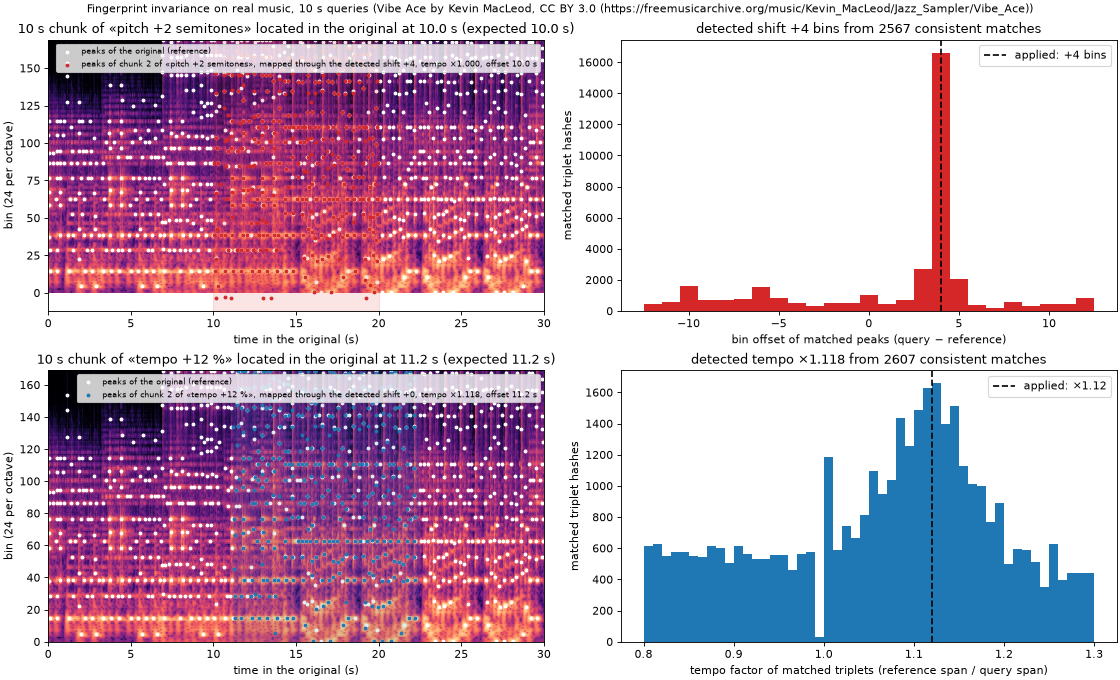
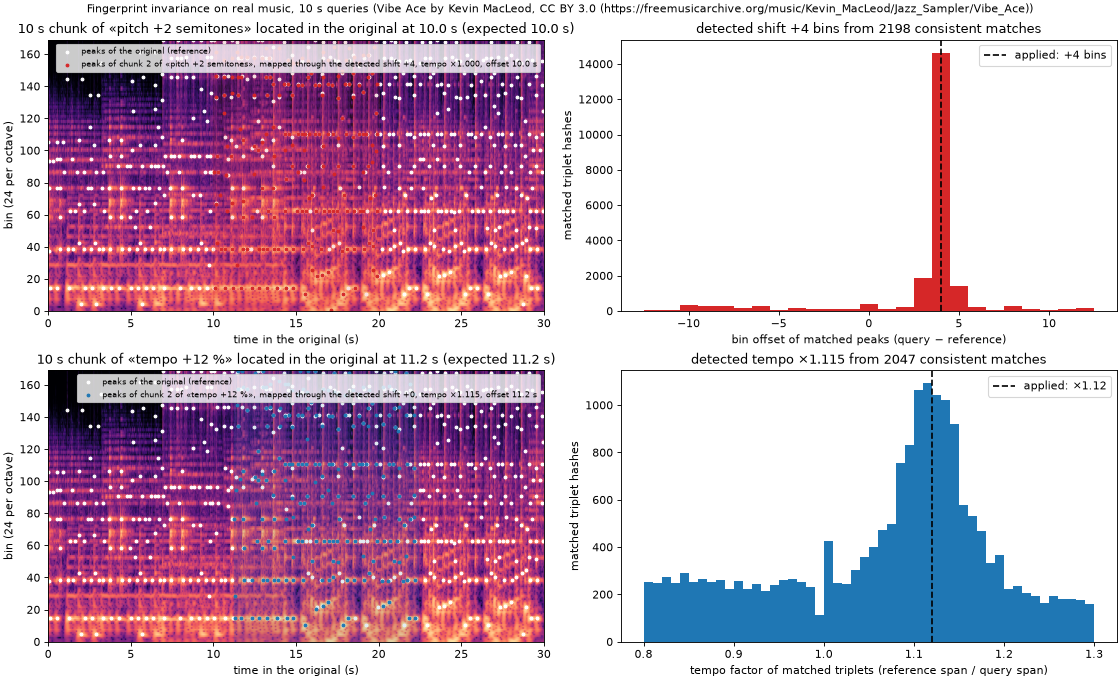
Tune the fingerprint peak picker and measure detection time
Replace the fixed -50 dB peak threshold with a 15 dB prominence rule
over a ±24 frame × ±9 bin neighbourhood, quantize the triplet time ratio
to 1/32 and widen the zone to 320 frames. Chosen from offline sweeps on
the cached spectrograms: noisy chunks go from 6–18 % to 26–29 %, clipped
and vocoded chunks rise as well, and the unrelated control stays at 0.1 %.

Add a peak-survival column that explains the remaining ceiling (a
triplet needs all three peaks, so score ≈ survival³) and a figure showing
how the evidence grows with the query length: the true reference beats
the unrelated piece by an order of magnitude after 2–3 s. Record the
sweep results and revised next steps in docs/NOTES.md.

Claude-Session: https://claude.ai/code/session_01V99q7FKCh8WL8cmQgbHNP3

diff --git a/scripts/fingerprint_demo.py b/scripts/fingerprint_demo.py
@@ -7,8 +7,9 @@ sped-up, clipped and noisy versions, cuts every version into 10 s chunks,
 runs `examples/cqt_dump.rs` on each chunk, fingerprints the spectrograms
 with pitch- and tempo-invariant peak triplets, and matches every chunk
 against the fingerprint of the full original, reporting the recovered pitch
-shift, tempo factor and position. It also compares our spectrogram with
-librosa's CQT of the same excerpt.
+shift, tempo factor and position, plus how the evidence grows with the
+length of the query. It also compares our spectrogram with librosa's CQT of
+the same excerpt.
 
     pip install numpy scipy soundfile librosa matplotlib
     python3 scripts/fingerprint_demo.py
@@ -66,6 +67,8 @@ EXCERPT = (0.5, 30.5)  # seconds
 SAME_SONG = (31.0, 61.0)  # the other, non-overlapping half of the song
 CONTROL = (5.0, 35.0)  # window of the unrelated control piece
 CHUNK_SECONDS = 10.0
+# Fewer consistent matches than this is treated as no identification.
+MIN_CONSISTENT = 30
 
 
 def download(name: str, sha256: str) -> Path:
@@ -98,21 +101,49 @@ def to_db(magnitudes: np.ndarray, top_db: float = 80.0) -> np.ndarray:
     return np.maximum(db, db.max() - top_db)
 
 
-def peaks(db: np.ndarray, time_radius: int = 24, bin_radius: int = 6, min_db: float = -50.0):
-    """Local maxima of the dB spectrogram, as (frame, bin) pairs."""
-    footprint = np.ones((2 * time_radius + 1, 2 * bin_radius + 1), dtype=bool)
-    local_max = ndimage.maximum_filter(db, footprint=footprint, mode="nearest") == db
-    strong = db >= db.max() + min_db
+def peaks(db: np.ndarray, time_radius: int = 24, bin_radius: int = 9, prominence_db: float = 15.0,
+          floor_db: float = -70.0):
+    """Local maxima of the dB spectrogram that stand `prominence_db` above the
+    mean of their neighbourhood, as (frame, bin) pairs.
+
+    A prominence threshold adapts to the local level: it keeps peaks in
+    quiet passages, ignores the raised floor of noisy audio and drops the
+    dense side lobes of clipped audio, where a fixed threshold does the
+    opposite. `floor_db` below the global maximum is a safety net."""
+    size = (2 * time_radius + 1, 2 * bin_radius + 1)
+    local_max = ndimage.maximum_filter(db, size=size, mode="nearest") == db
+    local_mean = ndimage.uniform_filter(db, size=size, mode="nearest")
+    strong = (db >= local_mean + prominence_db) & (db >= db.max() + floor_db)
     frames, bins = np.nonzero(local_max & strong)
     return np.stack([frames, bins], axis=1)
 
 
-def triplet_hashes(points: np.ndarray, zone_frames: int = 240, fan_out: int = 6):
+def peak_survival(query_peaks: np.ndarray, reference_peaks: np.ndarray, shift: int, tempo: float,
+                  offset: float, time_tolerance: int = 3, bin_tolerance: int = 1) -> float:
+    """Fraction of the query's peaks with a reference peak within tolerance
+    after mapping through the detected shift, tempo and offset. A triplet
+    hash survives only when all three of its peaks do, so the match score is
+    bounded by roughly the cube of this number."""
+    if len(query_peaks) == 0 or np.isnan(offset):
+        return np.nan
+    reference = {(int(t), int(b)) for t, b in reference_peaks}
+    hits = 0
+    for t, b in query_peaks:
+        t_mapped = int(round(tempo * t + offset))
+        b_mapped = int(b) - shift
+        if any((t_mapped + dt, b_mapped + db) in reference
+               for dt in range(-time_tolerance, time_tolerance + 1)
+               for db in range(-bin_tolerance, bin_tolerance + 1)):
+            hits += 1
+    return hits / len(query_peaks)
+
+
+def triplet_hashes(points: np.ndarray, zone_frames: int = 320, fan_out: int = 6, ratio_steps: int = 32):
     """Pitch- and tempo-invariant hashes from peak triplets.
 
     For peaks p1 < p2 < p3 in time the key is the two bin differences and the
-    quantized ratio (t2 - t1) / (t3 - t1); bin differences survive pitch
-    shifts and the ratio survives tempo changes.
+    ratio (t2 - t1) / (t3 - t1) quantized to `ratio_steps`; bin differences
+    survive pitch shifts and the ratio survives tempo changes.
     """
     order = np.lexsort((points[:, 1], points[:, 0]))
     points = points[order]
@@ -130,7 +161,7 @@ def triplet_hashes(points: np.ndarray, zone_frames: int = 240, fan_out: int = 6)
                 if t3 == t2:
                     continue
                 ratio = (t2 - t1) / (t3 - t1)
-                key = (int(b2 - b1), int(b3 - b2), int(round(ratio * 24)))
+                key = (int(b2 - b1), int(b3 - b2), int(round(ratio * ratio_steps)))
                 hashes[key].append((int(t1), int(b1), int(t3 - t1)))
     return hashes
 
@@ -333,10 +364,13 @@ def main() -> None:
             est = estimate(pairs)
             total = sum(len(v) for v in hs.values())
             expected_offset = start_s * applied_rate
+            if est["consistent"] < MIN_CONSISTENT:
+                est.update(bins=np.nan, tempo=np.nan, offset=np.nan)
+            survival = peak_survival(pk, reference_peaks, est["bins"], est["tempo"], est["offset"])
             rows.append(dict(
                 chunk=k + 1, start=start_s, seconds=len(piece) / sr, hashes=total, pairs=pairs,
                 peaks=pk, db=db, score=100.0 * est["consistent"] / max(total, 1),
-                expected_offset=expected_offset,
+                survival=survival, expected_offset=expected_offset,
                 located=est["offset"] * HOP / sr if not np.isnan(est["offset"]) else np.nan, **est,
             ))
         results[name] = (rows, applied_bins, applied_rate)
@@ -344,17 +378,20 @@ def main() -> None:
         print(f"{name:34} {summary}")
 
     def fmt(value, spec):
-        return "—" if value is None or (isinstance(value, float) and np.isnan(value)) else format(value, spec)
+        if value is None or (isinstance(value, float) and np.isnan(value)):
+            return "—"
+        return format(int(value) if spec == "+d" else value, spec)
 
-    print("\n| Version | Chunk 1 | Chunk 2 | Chunk 3 | Mean | Shift applied / detected | Tempo applied / detected | Located at (expected) |")
-    print("| --- | ---: | ---: | ---: | ---: | ---: | ---: | --- |")
+    print("\n| Version | Chunk 1 | Chunk 2 | Chunk 3 | Mean | Peaks kept | Shift applied / detected | Tempo applied / detected | Located at (expected) |")
+    print("| --- | ---: | ---: | ---: | ---: | ---: | ---: | ---: | --- |")
     for name, (rows, applied_bins, applied_rate) in results.items():
         scores = [f"{r['score']:.1f} %" for r in rows] + ["—"] * (3 - len(rows))
         mean = np.mean([r["score"] for r in rows])
         shifts = "/".join(fmt(r["bins"], "+d") for r in rows)
         tempos = "/".join(fmt(r["tempo"], ".3f") for r in rows)
         located = ", ".join(f"{fmt(r['located'], '.1f')} ({r['expected_offset']:.1f})" for r in rows)
-        print(f"| {name} | {' | '.join(scores)} | {mean:.1f} % | {applied_bins:+d} / {shifts} | "
+        kept = "/".join(fmt(100 * r["survival"], ".0f") for r in rows) + " %"
+        print(f"| {name} | {' | '.join(scores)} | {mean:.1f} % | {kept} | {applied_bins:+d} / {shifts} | "
               f"×{applied_rate:.2f} / {tempos} | {located} s |")
 
     # --- figure: pitch shift and tempo change proofs on the middle chunk -----
@@ -423,9 +460,42 @@ def main() -> None:
     fig.savefig(PLOTS / "song_match_scores.png", dpi=100)
     plt.close(fig)
 
+    # --- figure: how many seconds of audio a match needs -------------------------
+    # A real-time monitor sees the query grow; match the first 1..10 s of the
+    # middle chunk of every version and count the consistent hashes.
+    lengths = list(range(1, int(CHUNK_SECONDS) + 1))
+    growth = {}
+    for name, (rows, applied_bins, applied_rate) in results.items():
+        r = rows[min(1, len(rows) - 1)]
+        counts = []
+        for seconds in lengths:
+            db = r["db"][: int(seconds * sr / HOP)]
+            hs = triplet_hashes(peaks(db))
+            counts.append(estimate(match(hs, reference_hashes))["consistent"])
+        growth[name] = counts
+    fig, ax = plt.subplots(figsize=(10, 6), constrained_layout=True)
+    for name, counts in growth.items():
+        is_control = name.startswith("control")
+        ax.plot(lengths, np.maximum(counts, 0.5), marker="o", ms=4, lw=2.2 if is_control else 1.4,
+                ls="--" if is_control else "-", color="k" if is_control else None, label=name)
+    ax.set_yscale("log")
+    ax.set_xlabel("seconds of the query (start of the middle 10 s chunk)")
+    ax.set_ylabel("consistent triplet matches with the original")
+    ax.set_xticks(lengths)
+    ax.grid(True, which="both", alpha=0.3)
+    ax.set_title("Evidence accumulated against the original as the query grows "
+                 "(dashed: unrelated piece)", fontsize=10)
+    ax.legend(fontsize=8, loc="lower right", ncol=2)
+    fig.savefig(PLOTS / "song_detection_time.png", dpi=100)
+    plt.close(fig)
+    print("\nconsistent matches after 1..10 s of the middle chunk:")
+    for name, counts in growth.items():
+        print(f"{name:34} " + " ".join(f"{c:5d}" for c in counts))
+
     json.dump(
         {name: dict(applied_bins=applied_bins, applied_rate=applied_rate,
-                    chunks=[{k: v for k, v in r.items() if k not in ("pairs", "peaks", "db")} for r in rows])
+                    chunks=[{k: v for k, v in r.items() if k not in ("pairs", "peaks", "db")} for r in rows],
+                    growth=growth[name])
          for name, (rows, applied_bins, applied_rate) in results.items()},
         open(WORK / "summary.json", "w"), indent=2, default=float,
     )

diff --git a/README.md b/README.md
@@ -161,10 +161,13 @@ cargo run --release --example generate_plots
 as the reference. Modified versions of the excerpt, the other half of the
 same song, and an unrelated piece (*Dance of the Sugar Plum Fairy*, Kevin
 MacLeod, CC BY 3.0) are cut into 10 s chunks, and every chunk is matched
-against the reference on its own. Spectrograms use hop 256; fingerprints
-are pitch- and tempo-invariant peak triplets (two bin differences plus a
-quantized time ratio, as in Panako) looked up with ±1 bin and ±1 ratio step
-of tolerance; the tempo of a match is the ratio of the two triplets' time
+against the reference on its own. Spectrograms use hop 256. Peaks are
+local maxima that stand 15 dB above the mean of their ±24 frame × ±9 bin
+neighbourhood, a prominence rule that adapts to quiet passages, a raised
+noise floor and the side lobes of clipping alike. Fingerprints are pitch-
+and tempo-invariant peak triplets (two bin differences plus the time ratio
+quantized to 1/32, as in Panako) looked up with ±1 bin and ±1 ratio step of
+tolerance; the tempo of a match is the ratio of the two triplets' time
 spans, the pitch shift and tempo are chosen by vote, and the position
 follows from `t_ref = tempo · t_query + offset`.
 
@@ -176,29 +179,45 @@ with a correlation of 0.9996, and the linear gain ratio is 1.009.
   <img src="./plots/song_cqt_vs_librosa.png" width="98%" />
 </p>
 
-Score = consistent hashes / hashes of the chunk. "Located" is the detected
-start of the chunk in the reference, expected value in parentheses.
+Score = consistent hashes / hashes of the chunk. "Peaks kept" is the share
+of the chunk's peaks that have a counterpart in the reference after the
+detected mapping; a triplet survives only if all three of its peaks do, so
+the score is bounded by roughly its cube. "Located" is the detected start
+of the chunk in the reference, expected value in parentheses.
 
-| Version | Chunk 1 | Chunk 2 | Chunk 3 | Mean | Shift applied / detected | Tempo applied / detected | Located at (expected) |
-| --- | ---: | ---: | ---: | ---: | ---: | ---: | --- |
-| original | 95.7 % | 48.9 % | 53.8 % | 66.1 % | +0 / +0/+0/+0 | ×1.00 / 1.000/1.000/1.000 | 0.0 (0.0), 10.0 (10.0), 20.0 (20.0) s |
-| pitch +2 semitones | 11.1 % | 9.8 % | 12.9 % | 11.3 % | +4 / +4/+4/+4 | ×1.00 / 1.000/1.000/1.000 | 0.0 (0.0), 10.0 (10.0), 20.0 (20.0) s |
-| pitch −1 semitone | 16.4 % | 7.7 % | 7.6 % | 10.6 % | −2 / −2/−2/−2 | ×1.00 / 1.000/1.000/1.000 | 0.0 (0.0), 10.0 (10.0), 20.0 (20.0) s |
-| tempo +12 % | 13.5 % | 9.6 % | 8.4 % | 10.5 % | +0 / +0/+0/+0 | ×1.12 / 1.115/1.118/1.099 | 0.0 (0.0), 11.2 (11.2), 22.5 (22.4) s |
-| tempo −8 % | 13.7 % | 6.2 % | 11.9 % | 10.6 % | +0 / +0/+0/+0 | ×0.92 / 0.931/0.918/0.918 | −0.1 (0.0), 9.2 (9.2), 18.4 (18.4) s |
-| speed +6 % (resampled) | 63.9 % | 51.3 % | 50.8 % | 55.3 % | +2 / +2/+2/+2 | ×1.06 / 1.060/1.059/1.059 | 0.0 (0.0), 10.6 (10.6), 21.2 (21.2) s |
-| hard clip at 0.2 | 57.4 % | 20.2 % | 24.0 % | 33.9 % | +0 / +0/+0/+0 | ×1.00 / 1.000/1.000/1.000 | 0.0 (0.0), 10.0 (10.0), 20.0 (20.0) s |
-| white noise, 10 dB SNR | 5.6 % | 14.5 % | 17.5 % | 12.5 % | +0 / +0/+0/+0 | ×1.00 / 1.000/1.000/1.000 | 0.0 (0.0), 10.0 (10.0), 20.0 (20.0) s |
-| same song, other 30 s | 9.8 % | 7.4 % | 9.0 % | 8.7 % | +0 / +0/+0/+0 | ×1.00 / 1.000/1.000/1.000 | 19.4, 14.7, 21.0 s (repeated riffs) |
-| control (unrelated piece) | 0.2 % | 0.2 % | 0.1 % | 0.2 % | +0 / — | ×1.00 / — | — |
+| Version | Chunk 1 | Chunk 2 | Chunk 3 | Mean | Peaks kept | Shift applied / detected | Tempo applied / detected | Located at (expected) |
+| --- | ---: | ---: | ---: | ---: | ---: | ---: | ---: | --- |
+| original | 92.5 % | 53.8 % | 56.8 % | 67.7 % | 96/86/87 % | +0 / +0/+0/+0 | ×1.00 / 1.000/1.000/1.000 | 0.0 (0.0), 10.0 (10.0), 20.0 (20.0) s |
+| pitch +2 semitones | 13.7 % | 14.0 % | 19.9 % | 15.8 % | 57/60/73 % | +4 / +4/+4/+4 | ×1.00 / 1.000/1.000/1.000 | 0.0 (0.0), 10.0 (10.0), 20.0 (20.0) s |
+| pitch −1 semitone | 15.8 % | 12.8 % | 10.9 % | 13.2 % | 58/62/58 % | −2 / −2/−2/−2 | ×1.00 / 1.000/1.000/1.000 | 0.0 (0.0), 10.0 (10.0), 20.0 (20.0) s |
+| tempo +12 % | 16.7 % | 12.0 % | 12.0 % | 13.5 % | 59/56/61 % | +0 / +0/+0/+0 | ×1.12 / 1.117/1.115/1.115 | 0.0 (0.0), 11.2 (11.2), 22.4 (22.4) s |
+| tempo −8 % | 13.5 % | 12.4 % | 14.5 % | 13.5 % | 54/54/62 % | +0 / +0/+0/+0 | ×0.92 / 0.919/0.918/0.923 | 0.0 (0.0), 9.2 (9.2), 18.4 (18.4) s |
+| speed +6 % (resampled) | 67.5 % | 60.6 % | 54.3 % | 60.8 % | 89/90/88 % | +2 / +2/+2/+2 | ×1.06 / 1.060/1.059/1.059 | 0.0 (0.0), 10.6 (10.6), 21.2 (21.2) s |
+| hard clip at 0.2 | 64.6 % | 30.0 % | 28.7 % | 41.1 % | 85/73/75 % | +0 / +0/+0/+0 | ×1.00 / 1.000/1.000/1.000 | 0.0 (0.0), 10.0 (10.0), 20.0 (20.0) s |
+| white noise, 10 dB SNR | 28.9 % | 26.3 % | 28.8 % | 28.0 % | 85/91/91 % | +0 / +0/+0/+0 | ×1.00 / 1.000/1.000/1.000 | 0.0 (0.0), 10.0 (10.0), 20.0 (20.0) s |
+| same song, other 30 s | 13.5 % | 8.9 % | 13.8 % | 12.1 % | 56/40/60 % | +0 / +0/+0/+0 | ×1.00 / 1.000/1.000/1.000 | 19.4 (0.0), 11.0 (10.0), 21.0 (20.0) s |
+| control (unrelated piece) | 0.1 % | 0.1 % | 0.1 % | 0.1 % | —/—/— % | +0 / —/—/— | ×1.00 / —/—/— | — (0.0), — (10.0), — (20.0) s |
 
-Every chunk of every modified version is identified at 30× to 300× the
+Every chunk of every modified version is identified at 100× to 900× the
 score of the unrelated piece, its pitch shift and tempo are recovered
 exactly, and its position in the reference is found to within 0.1 s. The
 chunks of the other half of the same song match at positions where the song
 repeats its riffs, which is real shared content rather than a false
-positive. Chunks 2 and 3 of the unmodified original score about 50 %
-because triplets crossing a chunk edge are lost.
+positive. Chunks 2 and 3 of the unmodified original score about 55 %
+because triplets crossing a chunk edge are lost. The pitch-shifted and
+time-stretched versions keep only about 60 % of their peaks, because the
+phase vocoder smears transients, which caps their triplet scores near 20 %;
+the resampled version, a clean transform, keeps 90 %.
+
+For real-time monitoring the question is how much audio a decision needs.
+Matching the first 1 to 10 s of the middle chunk of every version, the
+evidence for the true reference exceeds the unrelated piece by an order of
+magnitude after 2 to 3 s and by two orders after 6 s, while the unrelated
+piece stays at about ten stray matches however long the query grows.
+
+<p align="center">
+  <img src="./plots/song_detection_time.png" width="80%" />
+</p>
 
 <p align="center">
   <img src="./plots/song_pitch_tempo_proof.png" width="98%" />

diff --git a/docs/NOTES.md b/docs/NOTES.md
@@ -60,19 +60,40 @@ music 0.20 dB mean, r = 0.9996.
 ## 4. Fingerprint experiment (`scripts/fingerprint_demo.py`)
 
 Reference: 30 s of *Vibe Ace* (CC BY). Queries: 10 s chunks of modified
-versions. Features: dB CQT (hop 256), local maxima over ±24 frames × ±6
-bins above −50 dB (≈950 peaks / 30 s), Panako-style triplet hashes
-`(Δbin12, Δbin23, round(24·(t2−t1)/(t3−t1)))` with zone 240 frames, fan-out
+versions. Features: dB CQT (hop 256); peaks = local maxima over ±24 frames ×
+±9 bins that stand ≥ 15 dB above the mean of that neighbourhood, floor −70
+dB (≈600 peaks / 30 s); Panako-style triplet hashes
+`(Δbin12, Δbin23, round(32·(t2−t1)/(t3−t1)))` with zone 320 frames, fan-out
 6, storing `(t1, b1, span)`. Matching: lookups with ±1 bin and ±1 ratio
-step; tempo per match from span ratio (offset-free); vote in a
-(Δbin, tempo) histogram; offset from `t_ref − tempo·t_query`; consistent =
-±1 bin, ±3 % tempo, ±1 s offset.
+step, buckets larger than 8 skipped; tempo per match from span ratio
+(offset-free); vote in a (Δbin, tempo) histogram; offset from
+`t_ref − tempo·t_query`; consistent = ±1 bin, ±3 % tempo, ±1 s offset;
+fewer than 30 consistent matches = no identification.
 
-Per-chunk scores (consistent hashes / chunk hashes): original 96/49/54 %,
-pitch ±: 8–16 %, tempo ±: 6–14 %, speed +6 %: 51–64 %, clip: 20–57 %,
-noise 10 dB: 6–18 %, same song other half: 7–10 % (located at repeated
-riffs), unrelated piece: 0.1–0.2 %. Shift, tempo and position recovered
-exactly in every chunk (position within 0.1 s).
+Per-chunk scores (consistent hashes / chunk hashes): original 93/54/57 %,
+pitch ±: 11–20 %, tempo ±: 12–17 %, speed +6 %: 54–68 %, clip: 29–65 %,
+noise 10 dB: 26–29 %, same song other half: 9–14 % (located at repeated
+riffs), unrelated piece: 0.1 %. Shift, tempo and position recovered exactly
+in every chunk (position within 0.1 s). Growth with query length (middle
+chunk, consistent matches after 1/2/3/5/10 s): original 169/861/1880/3662/
+8675, worst modified version (tempo −8 %) 5/38/177/742/1949, unrelated
+piece 6/7/7/10/10.
+
+Tuning (offline on cached dumps, `evaluate` in the sweep scripts):
+- The old fixed threshold (−50 dB below the global maximum) gave noise
+  6–18 %, clip 20–57 %, pitch/tempo 6–16 %. Prominence over the local mean
+  is the single largest gain (noise → 26–29 %); 12–18 dB all work, 15 dB
+  chosen; ±9 bins beats ±6 (fewer, stabler peaks), ±12 loses matches;
+  ±32 frames is a wash, ±16 hurts.
+- Per-second or per-octave peak caps did not help on this material.
+- Hash parameters matter little: ratio quantization 16–32 equivalent (32
+  chosen, 12 raises the control), zone ≥ 320 frames saturates, fan-out 8–10
+  gives more absolute matches but a proportionally higher control, ratio
+  tolerance 0 or 2 both worse than 1, bin tolerance 1 needed for the
+  vocoder cases.
+- The control is ~10 matches per chunk whatever the setting, so the
+  separation ratio is noisy; judge by the weakest true chunk and matches
+  per second.
 
 Lessons:
 - Estimating tempo from absolute time ratios only works for offset-zero
@@ -80,28 +101,39 @@ Lessons:
 - A median estimate lands between clusters; vote (histogram mode).
 - Another part of the same song is not a negative control for music with
   repeated riffs.
-- Chunk 1 of "original" scores ~96 %, later chunks ~50 %: triplets that
+- Chunk 1 of "original" scores ~93 %, later chunks ~55 %: triplets that
   cross a chunk edge are lost and zero padding changes edge frames. Expect
   this for any windowed query.
+- Score ≈ (peak survival)³: the vocoder-based pitch/tempo variants keep
+  ~60 % of their peaks (transient smearing), so triplets cap near 20 %;
+  resampling keeps 90 %, noise 85–90 %, clipping 75–85 %. Raising survival
+  (peak picking) pays three times; hash tweaks pay once.
 
 ## 5. Next steps, in order of expected payoff
 
-1. **Peak picker**: local adaptive threshold (dB above the local mean, e.g.
-   12 dB over a ±24×±6 window) gave 26 % vs 19 % on the noisy case in trials
-   but must be re-tuned with the chunked protocol; add per-band peak caps
-   so bass does not dominate.
-2. **Hash design**: keep triplets (tempo-invariant) but add pair hashes with
-   coarse `Δt` for very short queries; quantize the ratio to 1/32 with ±1
-   tolerance; store `(t1, b1, span)` as now so tempo is offset-free.
+1. **Decision rule for streaming**: keep a running (Δbin, tempo, offset)
+   vote over a sliding window; declare a match when the best cell holds
+   ≥ 10× the second-best song and ≥ 30 hashes. From the growth curve this
+   fires after 2–3 s for every distortion tried, ~1 s for clean audio.
+2. **Hash design**: pair hashes `(Δbin, round(8·log2 Δt))` with the value
+   `(t1, b1, Δt)` give tempo per match as `Δt_ref/Δt_query` and survive as
+   (peak survival)², so they should double the vocoder-case scores for
+   short queries; their keys carry less entropy (~2000 distinct), so
+   combine with triplets or score them with a stricter offset vote in a
+   catalogue.
 3. **Index**: hash → (song id, t1, b1, span) in a sorted/flat map; score by
    the largest (Δbin, tempo, offset) cell per song; report position.
-4. **Transform settings for streaming**: `gamma` 10–25 Hz cuts latency to
+4. **Peak survival under vocoding**: a wider time radius on the query side
+   only (±32) or matching peaks by time within ±3 frames instead of exact
+   triplet ratios may recover part of the smeared transients; measure with
+   `peak_survival` first, then hashes.
+5. **Transform settings for streaming**: `gamma` 10–25 Hz cuts latency to
    ~70 ms at 44.1 kHz; hop 256 helps tempo estimation; `bins_per_octave`
    24 keeps semitone shifts on integer bins (36 for finer detune).
-5. **Library**: consider exposing `Kernel::apply` on a caller-supplied
+6. **Library**: consider exposing `Kernel::apply` on a caller-supplied
    spectrum for users with their own FFT; a `CqtStream::push_interleaved`
    for stereo capture; SIMD (`std::simd`) once stable for the run product.
-6. **Decimation cost**: the half-band filter is ~half of batch time; a
+7. **Decimation cost**: the half-band filter is ~half of batch time; a
    two-stage design (short first stage, longer second) or `f32x8`
    intrinsics would halve it. Not needed for real-time.
 
